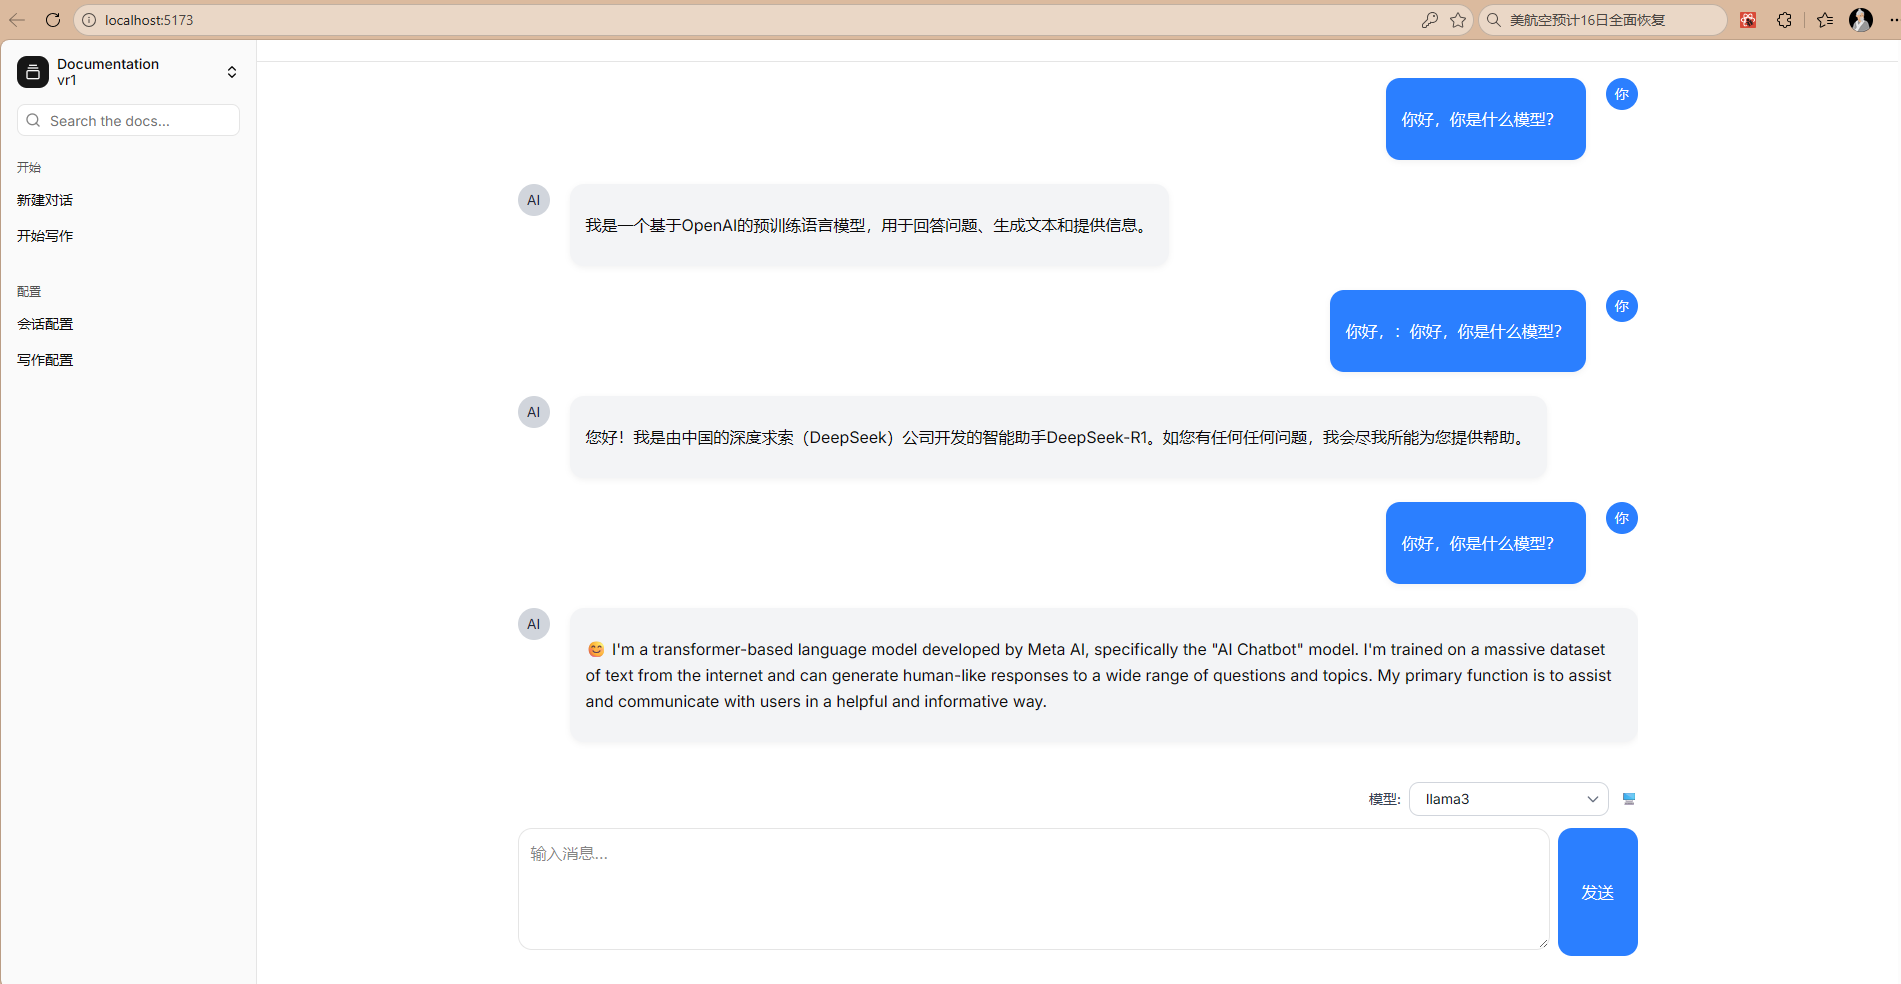
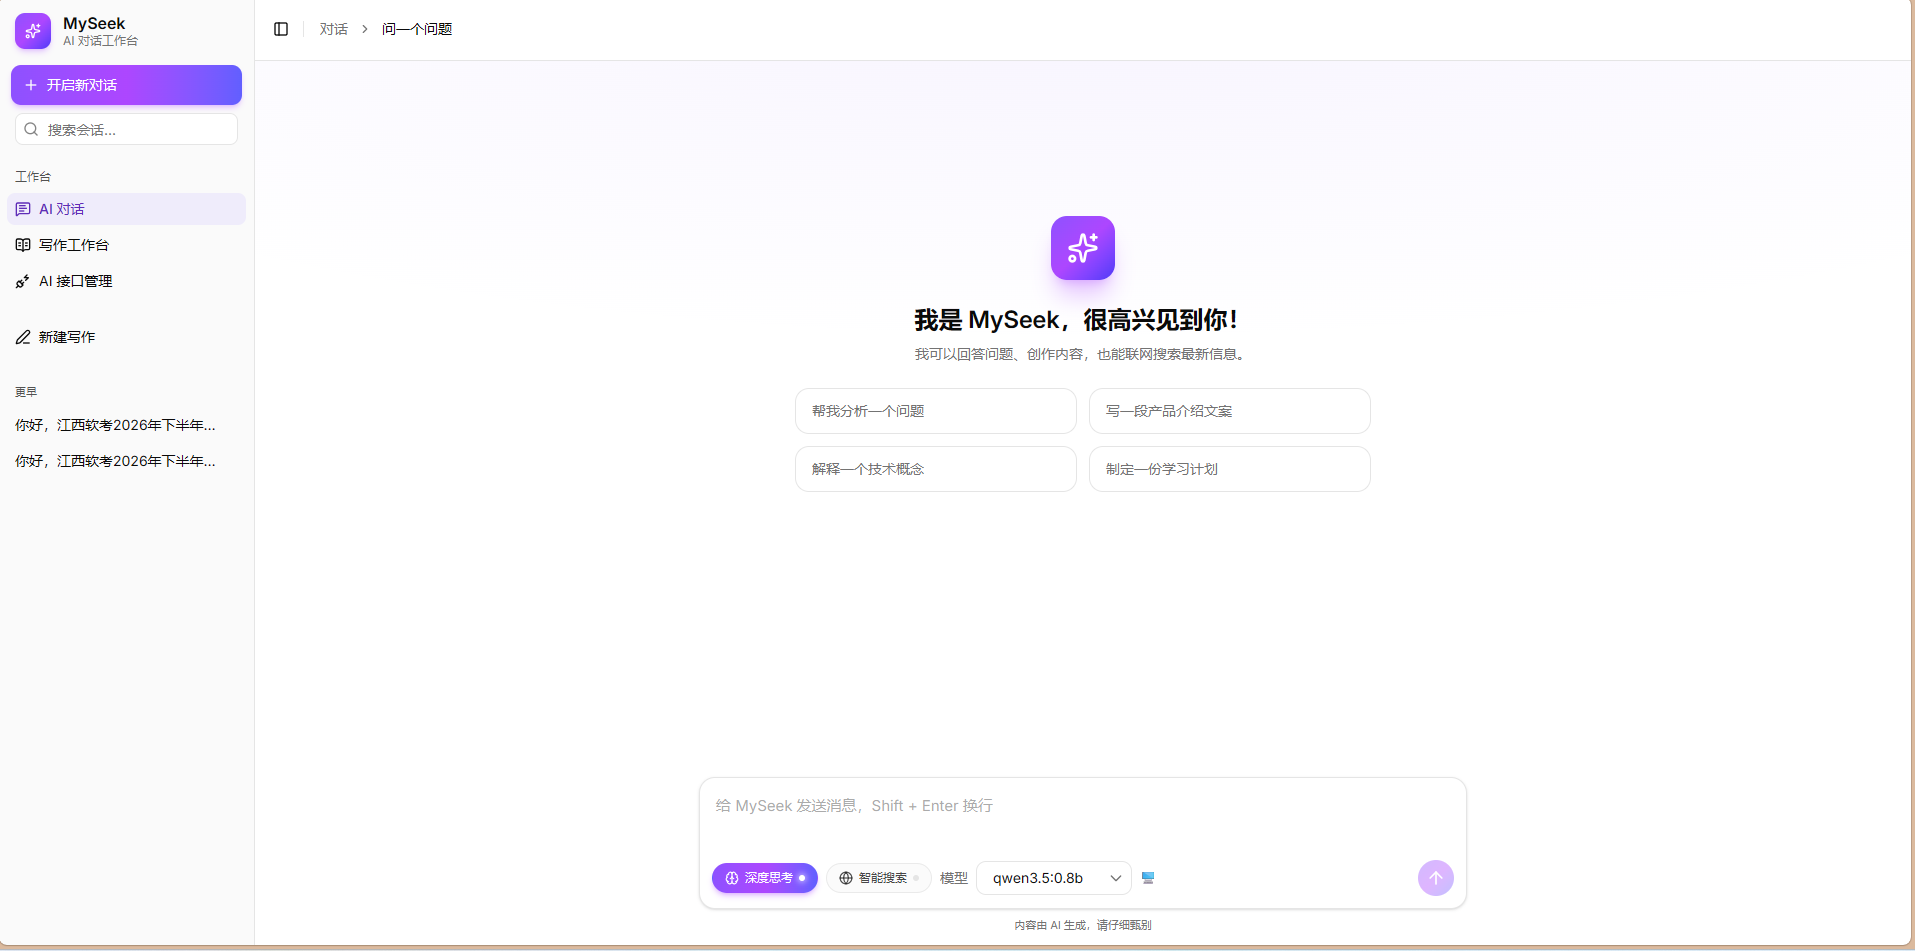
修复截图在非根路径部署时的资源引用问题

diff --git a/src/pages/Home.tsx b/src/pages/Home.tsx
@@ -60,7 +60,11 @@ export default function Home() {
             <span className="w-3 h-3 rounded-full bg-green-500" />
             <span className="ml-4 text-xs text-slate-500 font-mono">localhost:5173</span>
           </div>
-          <img src="/screenshot.png" alt="MySeek 聊天界面" className="w-full block" />
+          <img
+            src={`${import.meta.env.BASE_URL}screenshot.png`}
+            alt="MySeek 聊天界面"
+            className="w-full block"
+          />
         </div>
         <p className="text-center text-sm text-slate-500 mt-5">聊天页：多轮对话、Markdown 渲染、模型切换与会话列表</p>
       </section>
